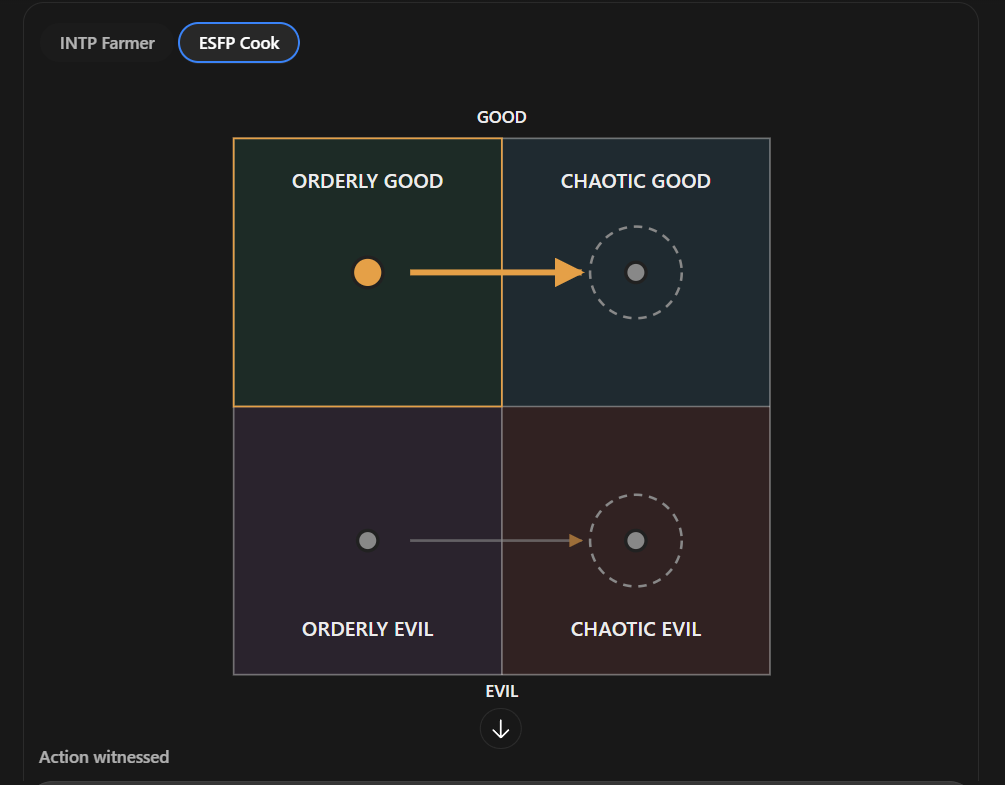
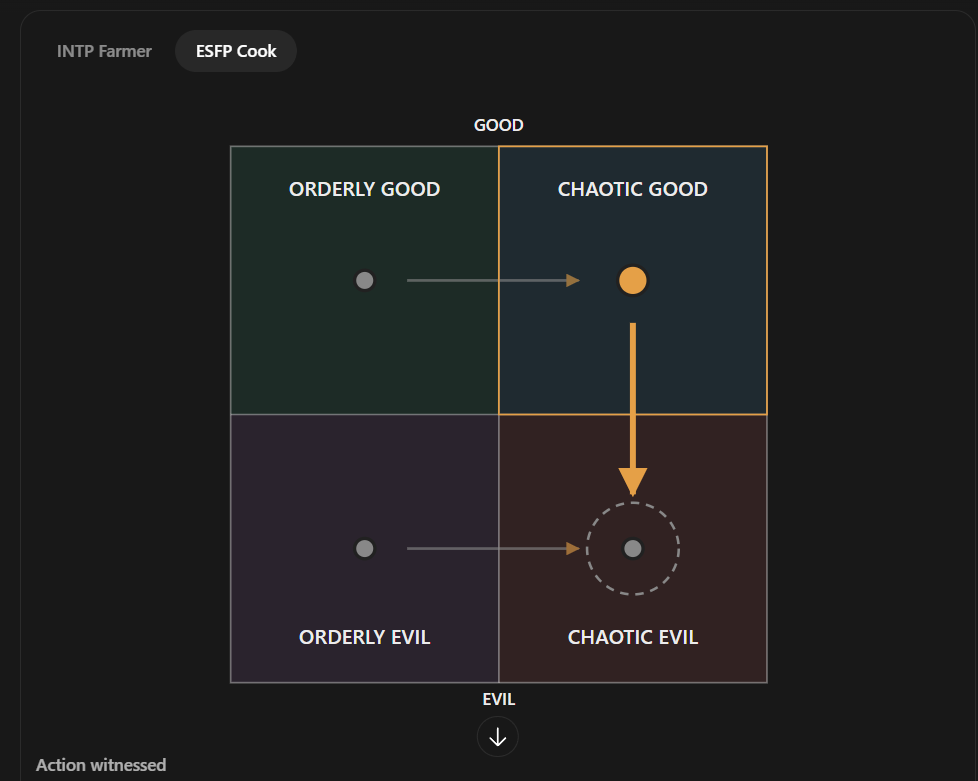
Story: corrected ESFP and INTP alignment maps

diff --git a/files/pirate-ship/story/characters/intp-m.md b/files/pirate-ship/story/characters/intp-m.md
@@ -98,7 +98,7 @@ Rex's rule: a character's nature isn't corrupted by the quest they go on.
 | Orderly good (church-like) | `quest.order_good` | moves him to orderly evil | Rex |
 | Chaotic good (the stereotypical pirate town) | `quest.chaos_good` | moves him to orderly good | Rex |
 | Orderly evil (Cthulhu corruption) | `quest.order_evil` | no change: leans him toward orderly evil | Rex |
-| Chaotic evil (killers, devil worship) | `quest.chaos_evil` | moves him to chaotic good | Rex |
+| Chaotic evil (killers, devil worship) | `quest.chaos_evil` | moves him to orderly evil | Rex |
 
 ### Inner rules: his alignment map (Rex, 2026-10-27)
 
@@ -111,15 +111,14 @@ What the path you push him on does to his alignment (`../QUESTLINES.md`, model p
    +-----------------+-----------------+
    |  ORDERLY GOOD   |  CHAOTIC GOOD   |
    |      (OG) <-----+------ (CG)      |
-   |       |         |        ^        |
-   +-------+---------+--------+--------+
-   |       v         |        |        |
-   |      (OE)       |       (CE)      |
-   |      ( )        |                 |
+   |       |         |                 |
+   +-------+---------+-----------------+
+   |       v         |                 |
+   |  ( ) (OE) <-----+------ (CE)      |
    |  ORDERLY EVIL   |  CHAOTIC EVIL   |
    +-----------------+-----------------+
               EVIL
-   OG->OE   CG->OG   OE stays   CE->CG
+   OG->OE   CG->OG   OE no change   CE->OE
 ```
 
 | Pushed on (action quadrant) | He moves toward | Mark |
@@ -127,13 +126,13 @@ What the path you push him on does to his alignment (`../QUESTLINES.md`, model p
 | Orderly good | orderly evil | Rex |
 | Chaotic good | orderly good | Rex |
 | Orderly evil | orderly evil (no change: just leans that way) | Rex |
-| Chaotic evil | chaotic good | Rex |
+| Chaotic evil | orderly evil | Rex |
 
 For the code (`inner_rules`, action → destination):
-`{ "order_good": "order_evil", "chaos_good": "order_good", "order_evil": "order_evil", "chaos_evil": "chaos_good" }`
+`{ "order_good": "order_evil", "chaos_good": "order_good", "order_evil": "order_evil", "chaos_evil": "order_evil" }`
 
-- **(Rex, 2026-10-27)** The dashed ring means no change: if you commit that action, it just leans him in that direction. It marks orderly evil.
-- A chain: chaotic evil → chaotic good → orderly good → orderly evil, where it stops.
+- **(Rex)** The dashed ring means no change: if you commit that action, it just leans him in that direction.
+- Every path ends in orderly evil: chaotic good passes through orderly good on the way.
 - **(open)** Starting alignment: to figure out later (the highlight on the diagram doesn't mark it).
 
 ## Change log
@@ -146,5 +145,4 @@ For the code (`inner_rules`, action → destination):
 | 2026-10-27 | Bodies as fertiliser, kills passers-by for it; ex-spouse of the ESFP cook (supersedes the dead spouse); parent of the daughter and son; gender to confirm | Rex |
 | 2026-10-27 | Gender confirmed: man; file moved from `intp-f.md` to `intp-m.md` | Rex |
 | 2026-10-27 | Joining: requires higher reputation, plus sub quests for them | Rex |
-| 2026-10-27 | Inner rules: his alignment map (OG→OE, CG→OG, OE stays, CE→CG) | Rex |
-| 2026-10-27 | The dashed ring means no change; the action just leans him that way | Rex |
+| 2026-10-27 | Inner rules: his alignment map (OG→OE, CG→OG, OE no change, CE→OE); replaces an earlier wrong chart sent the same day | Rex |

diff --git a/files/pirate-ship/story/characters/esfp-f.md b/files/pirate-ship/story/characters/esfp-f.md
@@ -91,7 +91,7 @@ Rex's rule: a character's nature isn't corrupted by the quest they go on.
 | Questline | Key | Reaction to what they witness you do there | Mark |
 |---|---|---|---|
 | Orderly good (church-like) | `quest.order_good` | moves her to chaotic good | Rex |
-| Chaotic good (the stereotypical pirate town) | `quest.chaos_good` | no change: leans her toward chaotic good | Rex |
+| Chaotic good (the stereotypical pirate town) | `quest.chaos_good` | moves her to chaotic evil | Rex |
 | Orderly evil (Cthulhu corruption) | `quest.order_evil` | moves her to chaotic evil | Rex |
 | Chaotic evil (killers, devil worship) | `quest.chaos_evil` | no change: leans her toward chaotic evil | Rex |
 
@@ -108,28 +108,28 @@ What the path you push her on does to her alignment (`../QUESTLINES.md`, model p
    +-----------------+-----------------+
    |  ORDERLY GOOD   |  CHAOTIC GOOD   |
    |      (OG) ------+----> (CG)       |
-   |                 |      ( )        |
-   +-----------------+-----------------+
-   |      (OE) ------+----> (CE)       |
-   |                 |      ( )        |
+   |                 |        |        |
+   +-----------------+--------+--------+
+   |                 |        v        |
+   |      (OE) ------+----> (CE) ( )   |
    |  ORDERLY EVIL   |  CHAOTIC EVIL   |
    +-----------------+-----------------+
               EVIL
-   OG->CG   CG stays   OE->CE   CE stays
+   OG->CG   CG->CE   OE->CE   CE no change
 ```
 
 | Pushed on (action quadrant) | She moves toward | Mark |
 |---|---|---|
 | Orderly good | chaotic good | Rex |
-| Chaotic good | chaotic good (no change: just leans that way) | Rex |
+| Chaotic good | chaotic evil | Rex |
 | Orderly evil | chaotic evil | Rex |
 | Chaotic evil | chaotic evil (no change: just leans that way) | Rex |
 
 For the code (`inner_rules`, action → destination):
-`{ "order_good": "chaos_good", "chaos_good": "chaos_good", "order_evil": "chaos_evil", "chaos_evil": "chaos_evil" }`
+`{ "order_good": "chaos_good", "chaos_good": "chaos_evil", "order_evil": "chaos_evil", "chaos_evil": "chaos_evil" }`
 
-- **(Rex, 2026-10-27)** The dashed ring means no change: if you commit that action, it just leans her in that direction. It marks chaotic good and chaotic evil.
-- Same arrows as the ESTP's map: everything pulls her toward chaos, and good/evil follows what you do.
+- **(Rex)** The dashed ring means no change: if you commit that action, it just leans her in that direction.
+- Every path ends in chaotic evil: orderly good passes through chaotic good on the way.
 - **(open)** Starting alignment: to figure out later (the highlight on the diagram doesn't mark it).
 
 ## Change log
@@ -142,5 +142,4 @@ For the code (`inner_rules`, action → destination):
 | 2026-10-27 | Not a baker but a general cook with a butcher shop; ex-spouse of the INTP farmer; parent of the son who collects skins; gender to confirm | Rex |
 | 2026-10-27 | Gender confirmed: woman; file moved from `esfp-m.md` to `esfp-f.md` | Rex |
 | 2026-10-27 | Joining: requires higher reputation, plus sub quests for them | Rex |
-| 2026-10-27 | Inner rules: her alignment map (OG→CG, CG stays, OE→CE, CE stays) | Rex |
-| 2026-10-27 | The dashed ring means no change; the action just leans her that way | Rex |
+| 2026-10-27 | Inner rules: her alignment map (OG→CG, CG→CE, OE→CE, CE no change); replaces an earlier wrong chart sent the same day | Rex |

diff --git a/files/pirate-ship/story/QUESTLINES.md b/files/pirate-ship/story/QUESTLINES.md
@@ -51,8 +51,8 @@ suggestion (not canon); blank = open.
 | ISTP hunter (`istp-f`) | | *possible support* | | *possible support* |
 | INTJ apothecary (`intj-f`) | **Rex: moves her to orderly evil** (*possible support*) | **Rex: moves her to orderly evil** | **Rex: stays orderly evil (loop)** (*possible support*) | **Rex: moves her to orderly evil** (*opposes*). **Rex:** all paths lead here unless you show her that her belief is wrong; then she becomes neutral |
 | ISFJ doctor (`isfj-f`) | | | | |
-| ESFP cook (`esfp-f`) | **Rex: moves her to chaotic good** | **Rex: no change, leans her toward chaotic good** | **Rex: moves her to chaotic evil** | **Rex: no change, leans her toward chaotic evil** |
-| INTP farmer (`intp-m`) | **Rex: moves him to orderly evil** | **Rex: moves him to orderly good** | **Rex: no change, leans him toward orderly evil** | **Rex: moves him to chaotic good** |
+| ESFP cook (`esfp-f`) | **Rex: moves her to chaotic good** | **Rex: moves her to chaotic evil** | **Rex: moves her to chaotic evil** | **Rex: no change: leans her toward chaotic evil** |
+| INTP farmer (`intp-m`) | **Rex: moves him to orderly evil** | **Rex: moves him to orderly good** | **Rex: no change: leans him toward orderly evil** | **Rex: moves him to orderly evil** |
 | ESTP veteran outdoorswoman (`estp-f`) | **Rex: moves her to chaotic good** | **Rex: stays chaotic good (loop)** | **Rex: moves her to chaotic evil** | **Rex: stays chaotic evil (loop)** |
 | ENFJ pretty boy (`enfj-m`) | **Rex: stays orderly good (loop)** | **Rex: moves them to orderly good** | **Rex: stays orderly evil (loop)** | **Rex: moves them to orderly evil** |
 | ESTJ privateer pirate (`estj-f`) | **Rex: moves them to chaotic evil** | **Rex: moves them to orderly good** | **Rex: moves them to chaotic good** | **Rex: moves them to orderly evil** |
@@ -89,3 +89,4 @@ suggestion (not canon); blank = open.
 | 2026-10-27 | The ESTP's alignment map (OG→CG, CG stays, OE→CE, CE stays) | Rex |
 | 2026-10-27 | The ESFP's map (OG→CG, CG stays, OE→CE, CE stays) and the INTP's map (OG→OE, CG→OG, OE stays, CE→CG) | Rex |
 | 2026-10-27 | On Rex's diagrams a dashed ring means no change: committing that action just leans the character that way | Rex |
+| 2026-10-27 | The ESFP's and INTP's maps replaced with Rex's corrected charts: ESFP (OG→CG, CG→CE, OE→CE, CE no change); INTP (OG→OE, CG→OG, OE no change, CE→OE) | Rex |

diff --git a/files/pirate-ship/story/STORY.md b/files/pirate-ship/story/STORY.md
@@ -199,5 +199,5 @@ work lives in `../art/`, not here.
 | 2026-10-27 | The ESTJ is a woman: an old privateer pirate, a pirate lady in her 40s, once part of a powerful crew, who lost everyone (`estj-f`) | Rex |
 | 2026-10-27 | The ESTP's alignment map: OG→CG, CG stays, OE→CE, CE stays | Rex |
 | 2026-10-27 | Joining: four or five recruits need higher reputation before they'll consider joining, plus sub quests for them: the INTP, ESTP, ESFP and ISFJ (a fifth, if any, is open) | Rex |
-| 2026-10-27 | Alignment maps: the ESFP cook (OG→CG, CG stays, OE→CE, CE stays); the INTP farmer (OG→OE, CG→OG, OE stays, CE→CG) | Rex |
+| 2026-10-27 | Alignment maps (corrected charts): the ESFP cook (OG→CG, CG→CE, OE→CE, CE no change); the INTP farmer (OG→OE, CG→OG, OE no change, CE→OE) | Rex |
 | 2026-10-26 | The essence of ISTP is hunting perfection. Second character: the ISTP man, a stoic hunter by trade chasing the biggest, most dangerous prey; the shark scene; in the water you're at his mercy | Rex |
